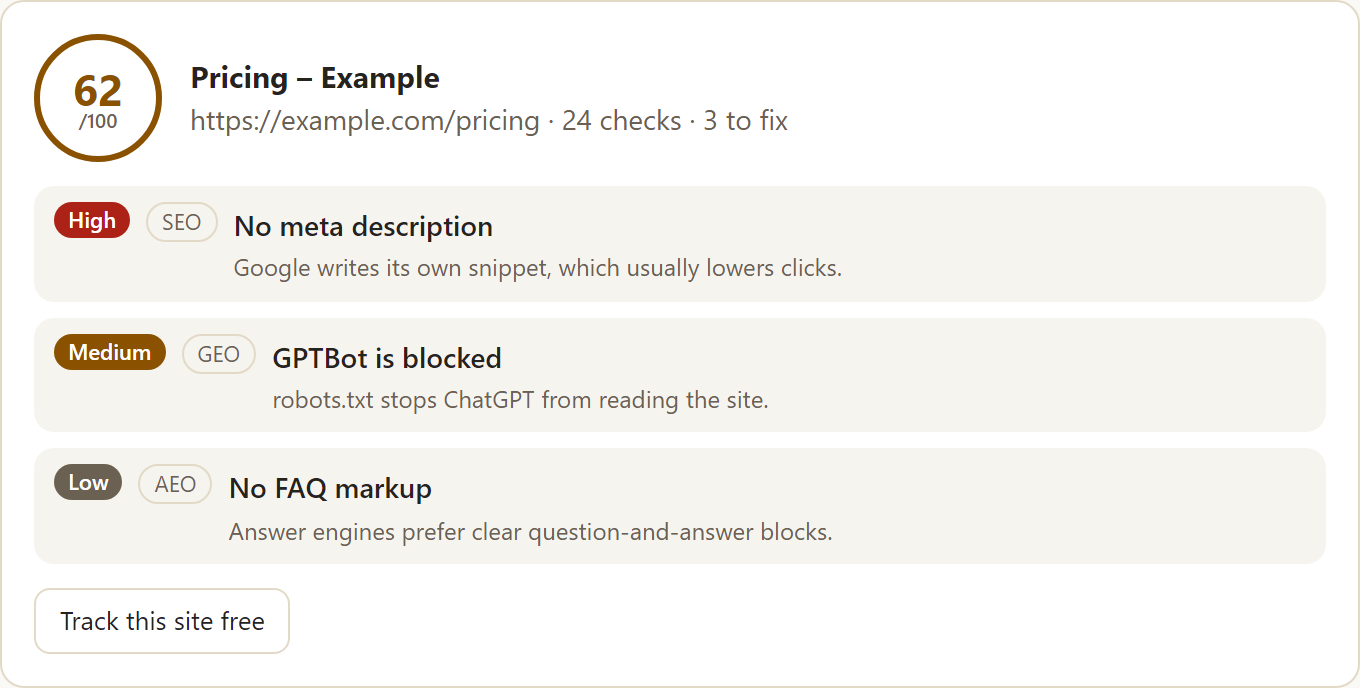
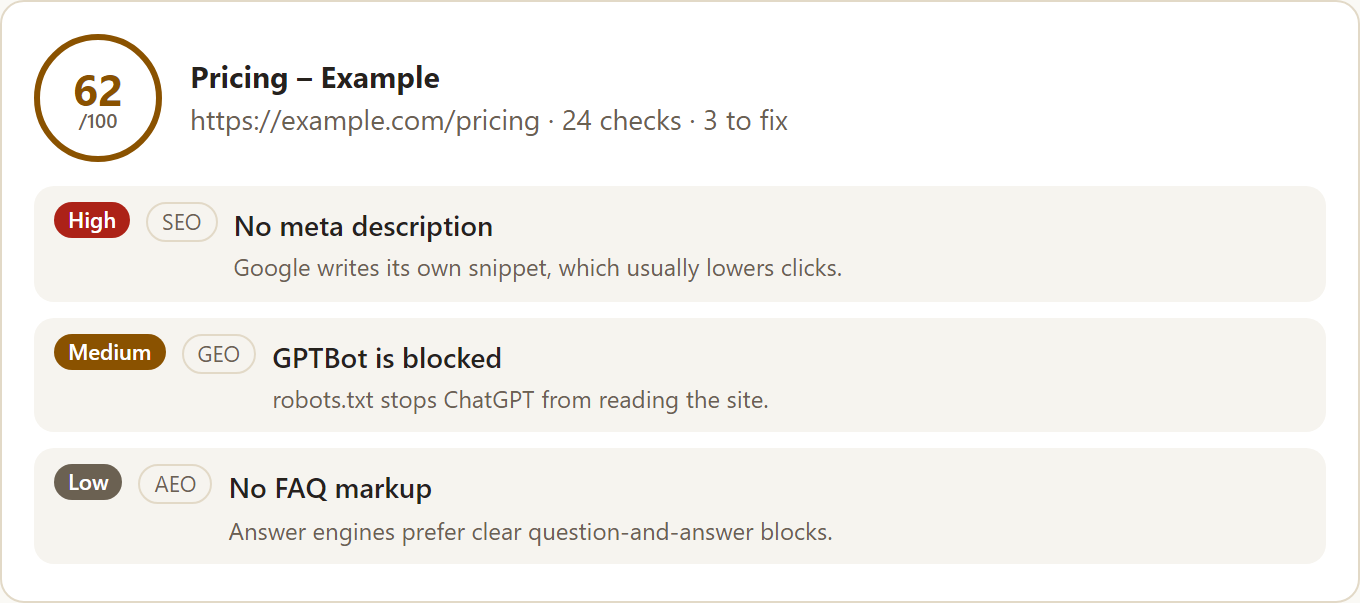
ChatGPT plugin 1.0.1: listing, skill and screenshots without plans, prices or upgrade prompts

diff --git a/chatgpt/skills/seo-rank-fixer/SKILL.md b/chatgpt/skills/seo-rank-fixer/SKILL.md
@@ -9,28 +9,28 @@ SEO Rank Fixer reads the user's Google Search Console data and ranks SEO fixes b
 
 ## Start here
 
-1. Call `list_sites` first to get site ids and the user's plan.
+1. Call `list_sites` first to get site ids.
 2. If there are no sites, tell the user to add one at https://seorankfixer.com/dashboard after connecting Google Search Console.
 3. For "how is my site doing", call `site_performance`. For "what should I fix", call `top_fixes`. For any public URL, call `scan_page`.
 
 ## Tools
 
-| Tool | Use it for | Plan |
-| --- | --- | --- |
-| `list_sites` | Site ids, sync status; the plan, AI credits left and renewal date | Free |
-| `site_performance` | Clicks, impressions, CTR, position vs the previous period | Free (28 days); longer ranges Starter |
-| `top_fixes` | The fixes worth the most clicks, with why and steps | Free (top 3); paid plans top 5 |
-| `scan_page` | Score any public URL for SEO, answer-engine and AI-crawler issues | Free |
-| `index_status` | Which pages are in Google's index, and why the others are not (URL Inspection) | Free |
-| `site_audit` | Latest crawl of a site: health score out of 100, errors, warnings and notices, and the problems most worth fixing first with how to fix each. Read-only, never starts a crawl | Free (top 3 problems in full); every problem on paid plans |
-| `listing_plan` | Checklist of trusted places to list a site for backlinks (directories, profiles, review sites), with the user's progress | Free (top 5 essentials); full list on paid plans |
-| `opportunities` | Every open fix, filterable by site and type | Starter |
-| `search_report` | Top queries or pages; countries and devices | Starter; countries and devices Pro |
-| `write_fix` | AI-written titles, meta descriptions, content briefs, answer blocks | Pro (uses AI credits) |
+| Tool | Use it for |
+| --- | --- |
+| `list_sites` | Site ids and sync status |
+| `site_performance` | Clicks, impressions, CTR, position vs the previous period |
+| `top_fixes` | The fixes worth the most clicks, with why and steps |
+| `scan_page` | Score any public URL for SEO, answer-engine and AI-crawler issues |
+| `index_status` | Which pages are in Google's index, and why the others are not (URL Inspection) |
+| `site_audit` | Latest crawl of a site: health score out of 100, errors, warnings and notices, and the problems most worth fixing first with how to fix each. Read-only, never starts a crawl |
+| `listing_plan` | Checklist of trusted places to list a site for backlinks (directories, profiles, review sites), with the user's progress |
+| `opportunities` | Every open fix, filterable by site and type |
+| `search_report` | Top queries or pages; countries and devices |
+| `write_fix` | Suggested titles, meta descriptions, content briefs, answer blocks |
 
 ## Rules
 
 - Quote only numbers the tools return, and say which date range they cover.
-- When a tool says a feature needs another plan, pass that on in one line with the link it gives.
-- Call `write_fix` only when the user wants a fix written, one fix at a time, because it uses AI credits.
+- When a tool says a feature is not included in the user's current plan, say so in one plain line. Do not promote plans, prices or upgrades.
+- Call `write_fix` only when the user wants a fix written, one fix at a time.
 - SEO Rank Fixer never changes the user's website. Give the user the exact text to paste.
